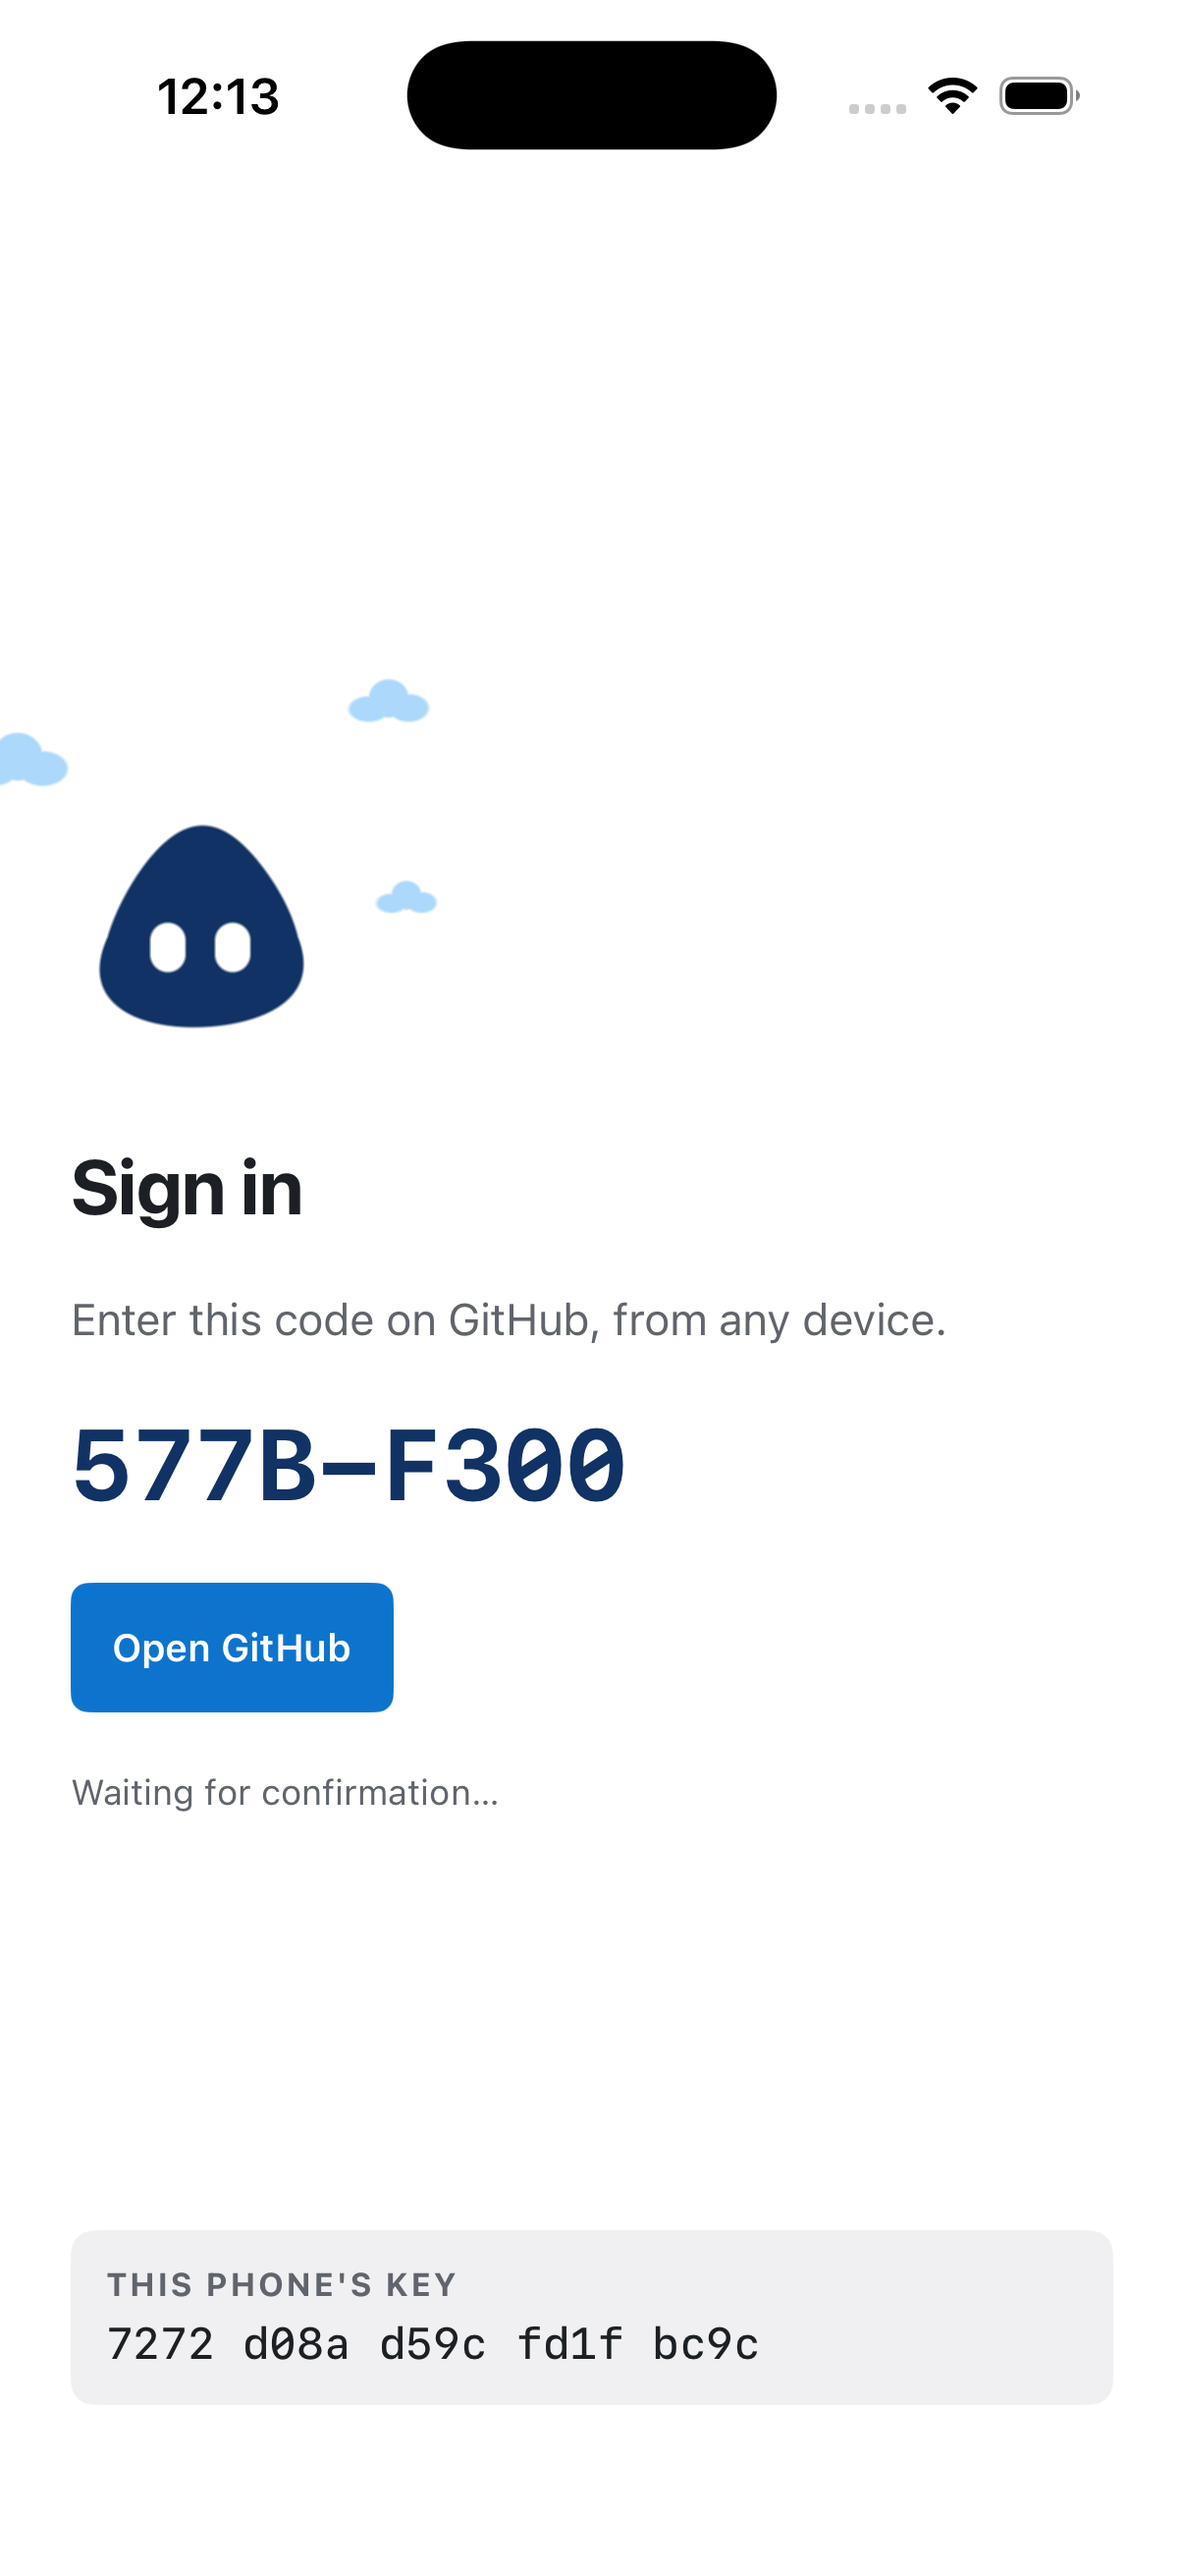
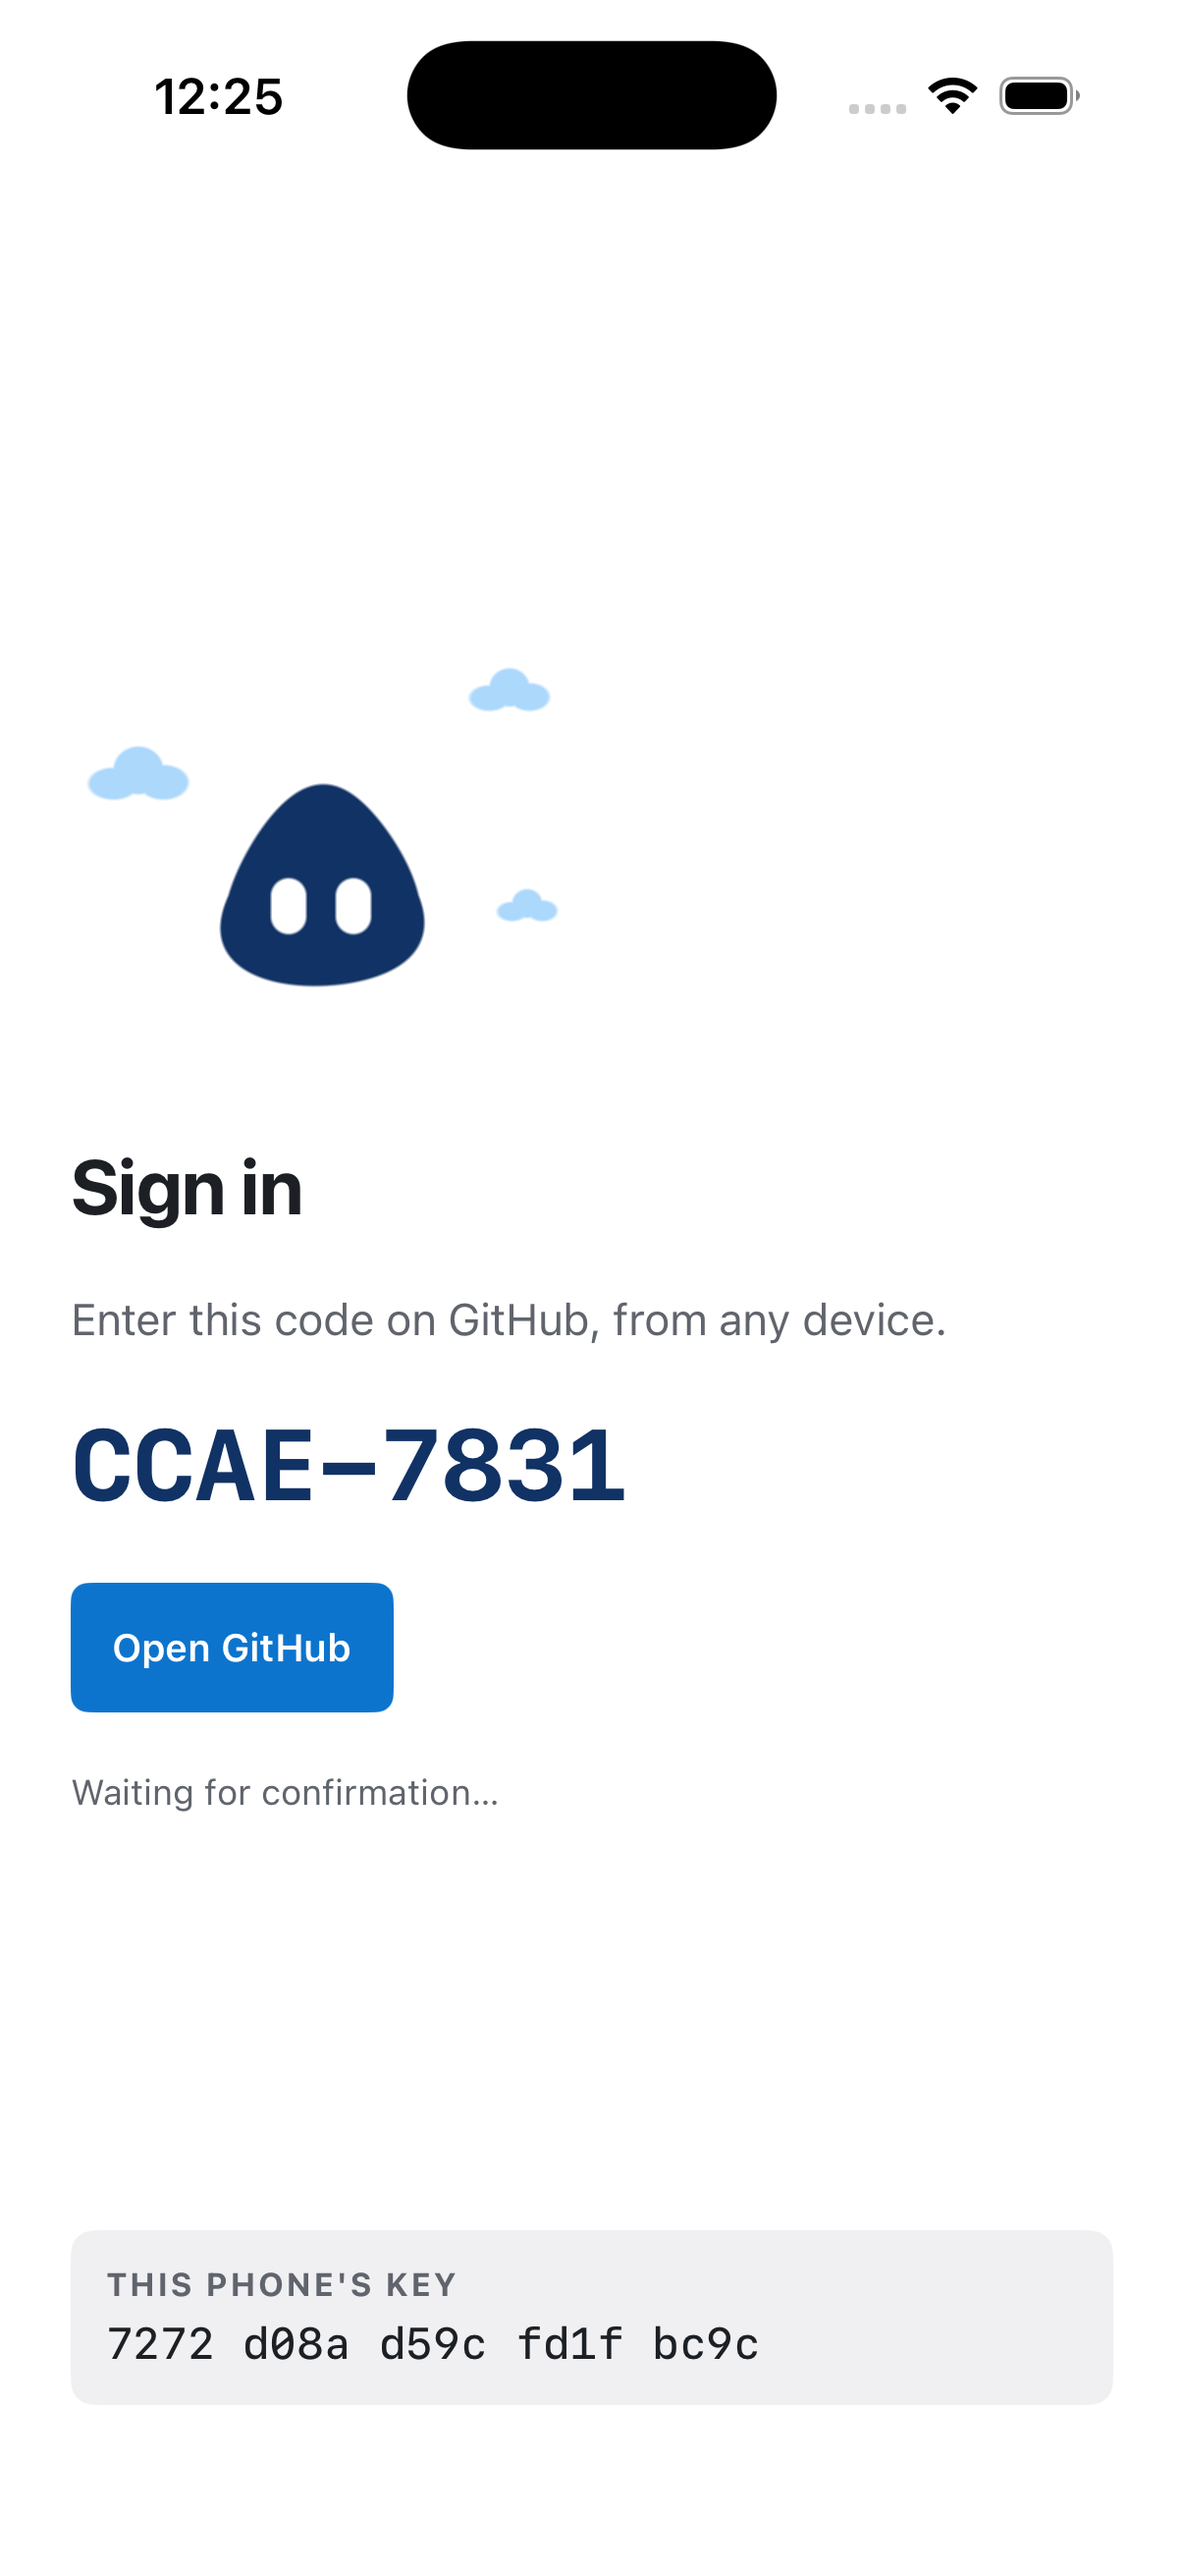
Phone: editable post-its, blob sparkles, blob scene inside the margin

diff --git a/iOS/AgentBoardPhone/SkyBlob.swift b/iOS/AgentBoardPhone/SkyBlob.swift
@@ -6,6 +6,8 @@ import SwiftUI
 struct SkyBlob: View {
     @Environment(\.accessibilityReduceMotion) private var reduceMotion
     @Environment(\.scenePhase) private var scenePhase
+    /// What floats around it, picked once per appearance as the Mac picks its outfit.
+    @State private var sparkles = Bool.random()
 
     struct Pose: Hashable {
         var lift: CGFloat = 0, look: CGFloat = 0, eyes: CGFloat = 1, trail: CGFloat = 0, wobble: CGFloat = 0
@@ -32,11 +34,11 @@ struct SkyBlob: View {
     var body: some View {
         Group {
             if reduceMotion || scenePhase != .active {
-                BlobFigure(pose: Pose(), breath: 0.5)
+                BlobFigure(pose: Pose(), breath: 0.5, sparkles: sparkles)
             } else {
                 PhaseAnimator(Self.loop) { pose in
                     // The outline breathes slowly on its own spring, under the hop.
-                    PhaseAnimator([0.0, 1.0]) { breath in BlobFigure(pose: pose, breath: breath) }
+                    PhaseAnimator([0.0, 1.0]) { breath in BlobFigure(pose: pose, breath: breath, sparkles: sparkles) }
                         animation: { _ in .spring(duration: 1.9, bounce: 0) }
                 } animation: { $0.animation }
             }
@@ -50,6 +52,7 @@ struct SkyBlob: View {
 private struct BlobFigure: View, Animatable {
     var pose: SkyBlob.Pose
     var breath: CGFloat
+    var sparkles: Bool
 
     var animatableData: AnimatablePair<AnimatablePair<CGFloat, CGFloat>, AnimatablePair<AnimatablePair<CGFloat, CGFloat>, AnimatablePair<CGFloat, CGFloat>>> {
         get { AnimatablePair(AnimatablePair(pose.lift, pose.look), AnimatablePair(AnimatablePair(pose.eyes, pose.trail), AnimatablePair(pose.wobble, breath))) }
@@ -83,7 +86,8 @@ private struct BlobFigure: View, Animatable {
                 .float2(Float(breath), Float(pose.wobble)),
                 .float4(t.chubby, t.tall, t.tilt, t.settle),
                 .float(t.phase),
-                .color(Theme.deep), .color(.white), .color(Theme.blueLight)))
+                .color(Theme.deep), .color(.white), .color(Theme.blueLight),
+                .float(sparkles ? 1 : 0), .color(Theme.accent)))
     }
 }
 

diff --git a/iOS/AgentBoardPhone/CanvasView.swift b/iOS/AgentBoardPhone/CanvasView.swift
@@ -29,6 +29,8 @@ struct CanvasView: View {
     @State private var opened: Card?
     @State private var adding: Adding?
     @State private var draft = ""
+    @State private var editing: PostIt?
+    @State private var text = ""
 
     enum Adding: Identifiable { case postIt, runner; var id: Self { self } }
 
@@ -62,6 +64,7 @@ struct CanvasView: View {
                 ForEach(notes) { note in
                     let rect = place(note.frame)
                     PostItView(note: note, scale: scale).frame(width: rect.width, height: rect.height).offset(x: rect.minX, y: rect.minY)
+                        .onTapGesture { text = note.text; editing = note }
                 }
                 ForEach(media) { item in
                     let rect = place(item.frame)
@@ -104,6 +107,26 @@ struct CanvasView: View {
         .navigationTitle(worktree.title)
         .navigationBarTitleDisplayMode(.inline)
         .navigationDestination(item: $opened) { card in TerminalPage(link: link, card: card) }
+        .sheet(item: $editing) { note in
+            NavigationStack {
+                TextEditor(text: $text)
+                    .font(Theme.Font.body).foregroundStyle(Theme.ink)
+                    .padding(12)
+                    .background(Theme.surface)
+                    .navigationTitle(note.name)
+                    .navigationBarTitleDisplayMode(.inline)
+                    .toolbar {
+                        ToolbarItem(placement: .cancellationAction) { Button("Cancel") { editing = nil } }
+                        ToolbarItem(placement: .confirmationAction) {
+                            Button("Save") {
+                                link.writePostIt(note.id, text)
+                                editing = nil
+                            }
+                        }
+                    }
+            }
+            .presentationDetents([.medium, .large])
+        }
         .toolbar {
             ToolbarItem(placement: .topBarTrailing) {
                 Menu {

diff --git a/iOS/AgentBoardPhone/HostLink.swift b/iOS/AgentBoardPhone/HostLink.swift
@@ -157,6 +157,12 @@ import UIKit
         send(BoardSay.open(id, cols: 75, rows: 20, start: true))
     }
 
+    /// Shown at once; the core's `postItUpdated` confirms it.
+    func writePostIt(_ id: UUID, _ text: String) {
+        if let index = postIts.firstIndex(where: { $0.id == id }) { postIts[index].text = text }
+        send(BoardSay.writePostIt(id, text))
+    }
+
     func addPostIt(_ text: String, to worktree: String) {
         let name = Self.unique("Post-it", among: postIts.filter { $0.worktree == worktree }.map(\.name))
         send(BoardSay.addPostIt(UUID(), worktree: worktree, name: name, frame: CGRect(origin: freeSpot(in: worktree), size: CGSize(width: 340, height: 320)),

diff --git a/iOS/AgentBoardPhone/App.swift b/iOS/AgentBoardPhone/App.swift
@@ -32,8 +32,8 @@ struct SignInView: View {
     var body: some View {
         VStack(alignment: .leading, spacing: 20) {
             Spacer()
-            // Its frame is wider than the body: pulled left so the body lines up with the text.
-            SkyBlob().padding(.leading, -41)
+            // The whole scene, clouds included, stays inside the margin.
+            SkyBlob()
             Text("Sign in").font(Theme.Font.headline).tracking(Theme.Font.headlineTracking).foregroundStyle(Theme.ink)
             if let code {
                 Text("Enter this code on GitHub, from any device.").font(Theme.Font.body).foregroundStyle(Theme.inkMuted)

diff --git a/iOS/AgentBoardPhone/BoardWire.swift b/iOS/AgentBoardPhone/BoardWire.swift
@@ -109,6 +109,9 @@ enum BoardSay {
         return json(["addPostIt": ["_0": record]])
     }
 
+    /// The user rewrote the post-it's text (`BoardRequest.writePostIt`).
+    static func writePostIt(_ id: UUID, _ text: String) -> Data { json(["writePostIt": ["id": id.uuidString, "text": text]]) }
+
     static func prompt(_ id: UUID, _ text: String) -> Data { json(["prompt": ["id": id.uuidString, "text": text]]) }
 
     static func dismissAttention(_ id: UUID) -> Data { json(["dismissAttention": ["_0": id.uuidString]]) }
